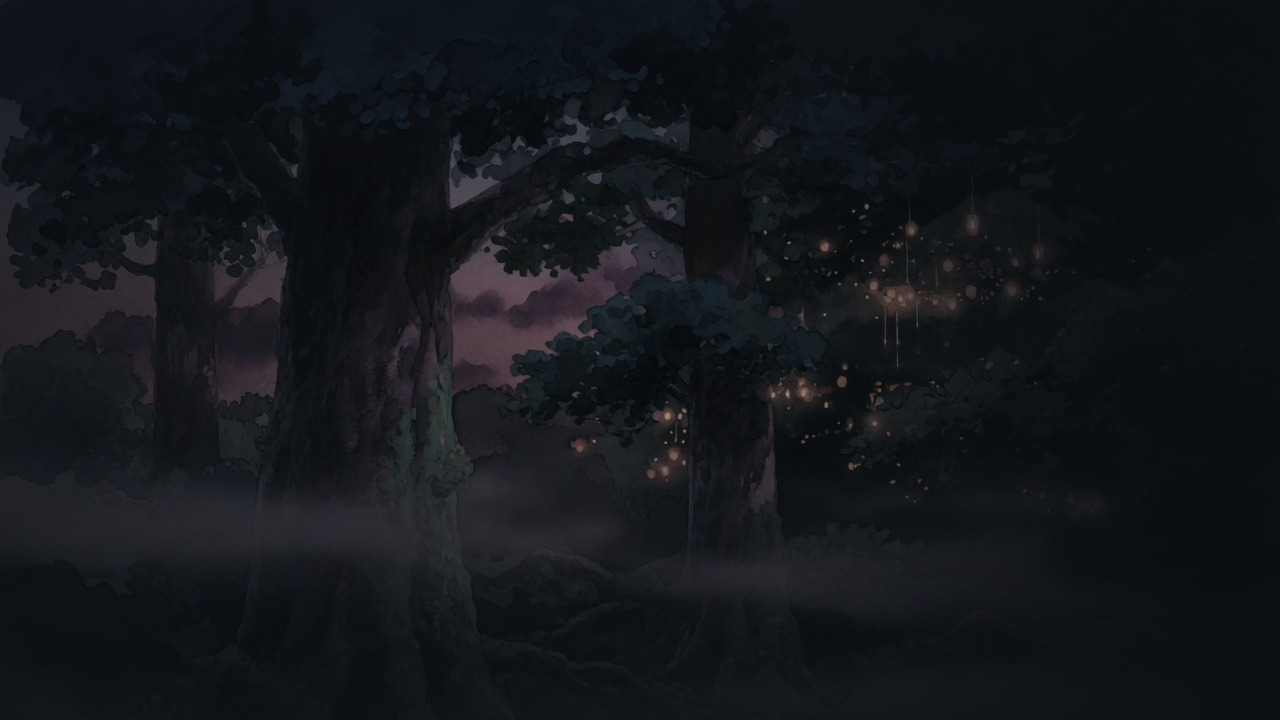
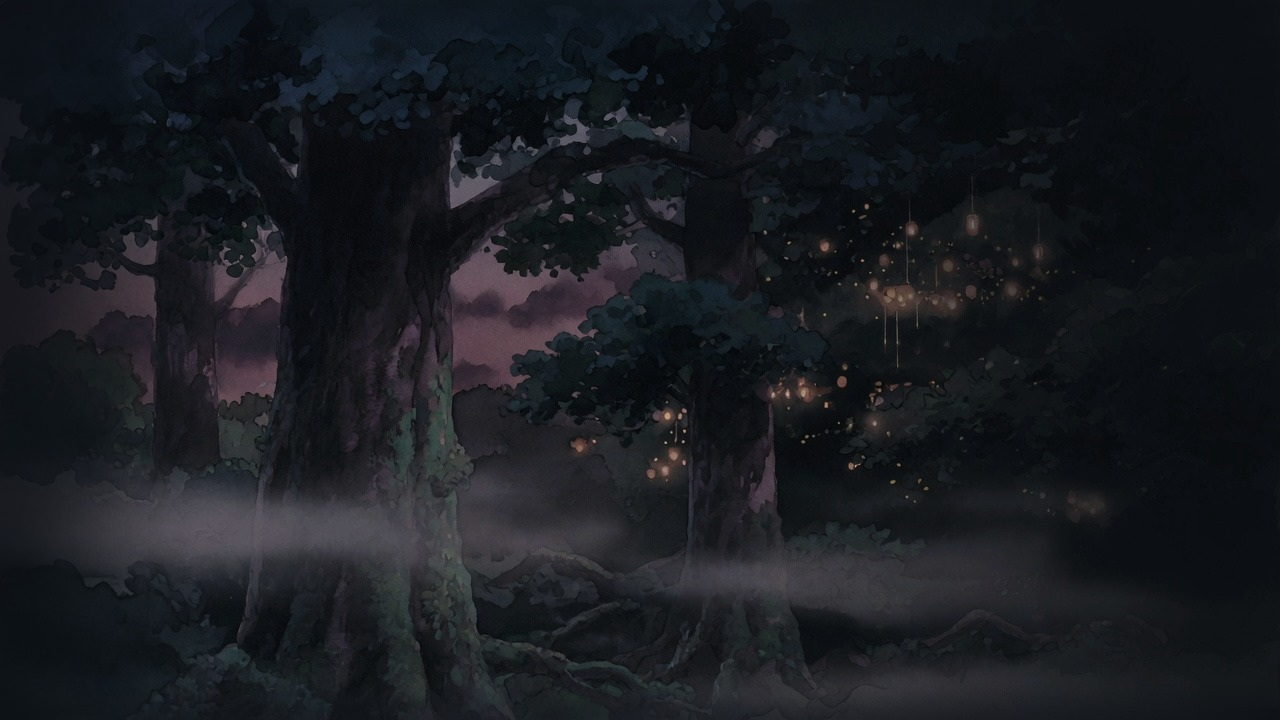
Start Elbaph art at the slide midpoint and fill to the right.
Soft blend at the center line so left stays clean for title text.

diff --git a/assets/css/style.scss b/assets/css/style.scss
@@ -2032,44 +2032,39 @@ body.nav-open {
 
 .talk-elbaph__art {
   position: absolute;
-  inset: 0;
-  width: 100%;
+  top: 0;
+  /* Start at the middle of the slide, fill through the right edge */
+  left: 42%;
+  right: 0;
+  width: auto;
   height: 100%;
   object-fit: cover;
-  object-position: center 38%;
-  opacity: 0.78;
-  /* Full-frame art that still dissolves into the dark slide */
+  object-position: 40% 38%;
+  opacity: 0.8;
   mix-blend-mode: lighten;
-  -webkit-mask-image: radial-gradient(
-    ellipse 95% 90% at 55% 45%,
-    #000 0%,
-    #000 42%,
-    rgba(0, 0, 0, 0.75) 68%,
-    rgba(0, 0, 0, 0.35) 85%,
-    transparent 100%
+  /* Soft dissolve at the mid-line into the dark left half */
+  -webkit-mask-image: linear-gradient(
+    to right,
+    transparent 0%,
+    rgba(0, 0, 0, 0.35) 8%,
+    rgba(0, 0, 0, 0.85) 22%,
+    #000 38%,
+    #000 100%
   );
-  mask-image: radial-gradient(
-    ellipse 95% 90% at 55% 45%,
-    #000 0%,
-    #000 42%,
-    rgba(0, 0, 0, 0.75) 68%,
-    rgba(0, 0, 0, 0.35) 85%,
-    transparent 100%
+  mask-image: linear-gradient(
+    to right,
+    transparent 0%,
+    rgba(0, 0, 0, 0.35) 8%,
+    rgba(0, 0, 0, 0.85) 22%,
+    #000 38%,
+    #000 100%
   );
 }
 
 .talk-slide__fore {
   position: relative;
   z-index: 1;
-  max-width: min(38rem, 58%);
-  /* Soft local scrim so type stays crisp over full art */
-  padding: 0.5rem 1rem 0.85rem 0.15rem;
-  background: linear-gradient(
-    105deg,
-    color-mix(in srgb, var(--bg) 82%, transparent) 0%,
-    color-mix(in srgb, var(--bg) 55%, transparent) 55%,
-    transparent 100%
-  );
+  max-width: min(36rem, 48%);
 }
 
 .talk-elbaph__welcome {
@@ -2082,11 +2077,12 @@ body.nav-open {
 }
 
 .talk-page.is-presenting .talk-elbaph__art {
-  opacity: 0.75;
+  left: 40%;
+  opacity: 0.78;
 }
 
 .talk-page.is-presenting .talk-slide__fore {
-  max-width: min(42rem, 55%);
+  max-width: min(40rem, 46%);
 }
 
 .talk-page.is-presenting .talk-elbaph__welcome {
@@ -2095,7 +2091,8 @@ body.nav-open {
 
 @media (max-width: 800px) {
   .talk-elbaph__art {
-    opacity: 0.6;
+    left: 20%;
+    opacity: 0.55;
   }
 
   .talk-slide__fore {
